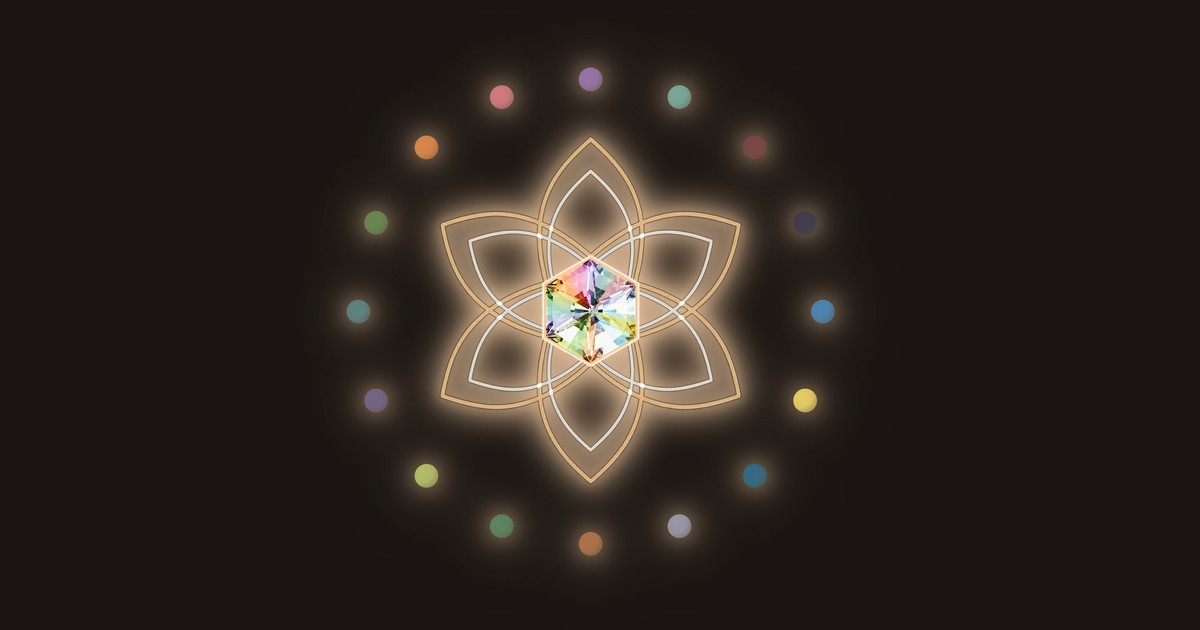
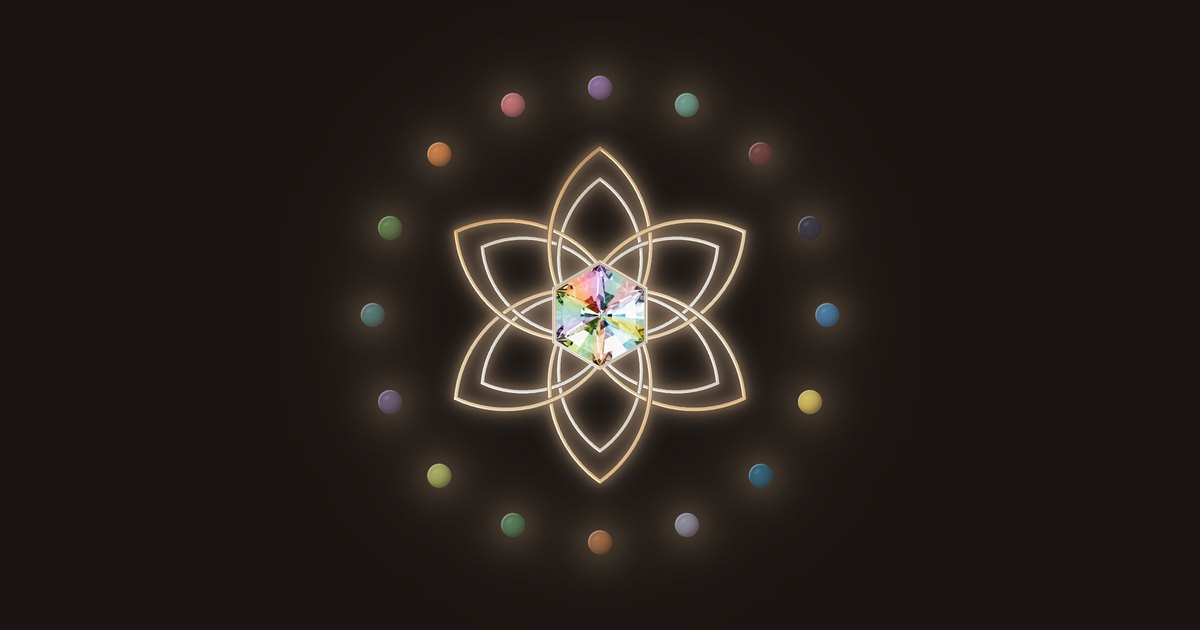
Replace the petals, orbs and bezel with vector versions
The logo's petals were a 627 px raster (petals-sep.webp) brightened by a CSS
filter, the orbs were flat gradients, and the gem's bezel was drawn on a
canvas. All three were designed in a vector bench and are now used as designed.

Changes
- Petals: src/assets/logo/petals.svg replaces petals-sep.webp. Exact arcs,
  gold and cream strokes with a bevel and a real over-and-under weave. The
  brightness(1.4) filter is gone (it was compensating for the old raster).
- Bezel: src/assets/logo/bezel.svg replaces the canvas drawing in
  SpectralGem; the bezel constants and canvas code are removed.
- Orbs: smaller inner orbs (0.069 of the size, was 0.085), slightly larger
  outer orbs (0.106, was 0.102), new opacity ranges, and four fixed layers
  over the animated colour (form shading, glass highlight, rim light, edge
  darkening). Outer orb glow radii widened 1.45x in globals.css.
- Glow round the petals and gem: radii x0.75 and opacity x0.74 (GLOW_SPREAD,
  GLOW_STRENGTH); bakeGlow takes a strength argument.
- Flat logo (headers, About watermark): new nenya-logo.webp (768 px) and
  nenya-logo-small.webp (128 px) rendered from the same drawings. Retired
  2d6974b8...webp, 97ae39e7...webp and petals-sep.webp.
- Re-rendered: apple-touch icon, icon-192/512/maskable, favicons, og-image,
  PDF logo. The 512 icons are 256-colour (38 and 31 KiB).
- docs/brand: README and vector-logo-settings.json (every chosen value) and a
  still of the orb rings.
[…]

diff --git a/src/app/components/NenyaLogo.tsx b/src/app/components/NenyaLogo.tsx
@@ -1,16 +1,14 @@
 import * as m from 'motion/react-m';
 import { useEffect, useRef, useState } from 'react';
-import nenyaLogo from 'figma:asset/2d6974b805d90d34c0a281273e556b545b1c5632.webp';
-// The source asset is a 1024x1024 WebP (~69KB) -- appropriate for the large
-// welcome-screen breathing logo (rendered up to 400px), but most call sites
-// use this component as a small persistent header mark (28-40px), where a
-// 1024px source is over 25x more image data than the display size can ever
-// show. This pre-resized/re-encoded 128x128 WebP (~5KB) is swapped in below
-// for those small sizes instead.
+// The flat logo (petals, bezel and gem, no orbs) is a 768 px WebP rendered from the vector drawings, and most call
+// sites use this component as a small persistent header mark (28-40px), where that is over 25 times more image
+// data than the display can show. A pre-resized 128 px WebP is swapped in below for those small sizes instead.
+import nenyaLogo from '../../assets/nenya-logo.webp';
 import nenyaLogoSmall from '../../assets/nenya-logo-small.webp';
-// The orbit view's two separated layers. Imported (not served from public/) so the build gives them
-// versioned filenames and they can be cached for a long time safely.
-import petalsLayer from '../../assets/petals-sep.webp';
+// The orbit view's petals: a vector drawing (two interlaced gold and cream flowers with a bevel and a true over-under
+// weave), drawn as an image so the build gives it a versioned filename that can be cached for a long time.
+// Its 765-unit box is the logo's size * 0.765, with the outer ring's diameter as 1000 units.
+import petalsLayer from '../../assets/logo/petals.svg';
 import { valarColors, type BreathingTechnique } from './ValarBreathingLogo';
 import SpectralGem from './SpectralGem';
 import LogoGlow from './LogoGlow';
@@ -19,6 +17,55 @@ import LogoGlow from './LogoGlow';
 // covers up to ~40px CSS at 3x device pixel ratio (the largest "small"
 // usage in the app today) with headroom to spare.
 const SMALL_LOGO_MAX_SIZE = 48;
+
+// The orbs are glass spheres: a colour that changes over time (animated below) with four fixed layers over it,
+// all taken from the design bench. Sizes are fractions of the logo's size; opacities are the animation's
+// low and high (the orbs pulse between them).
+const INNER_ORB_FRACTION = 0.069;
+const OUTER_ORB_FRACTION = 0.106;
+const INNER_ORB_OPACITY = [0.83, 1, 0.83];
+const OUTER_ORB_OPACITY = [0.64, 0.87, 0.64];
+const ORB_FORM = 0.3; // shading toward the lower right edge
+const ORB_SHINE = 0.2; // the glass highlight, upper left
+const ORB_RIM_LIGHT = 0.69; // a bright rim on the upper left edge
+const ORB_RIM_DARK = 0.06; // a faint darkening of the whole edge
+
+/** The fixed layers over an orb's changing colour. `d` is the orb's diameter in px. */
+function OrbSurface({ d }: { d: number }) {
+  const R = d / 2;
+  const fill: React.CSSProperties = { position: 'absolute', inset: 0, borderRadius: '50%', pointerEvents: 'none' };
+  const ring = 'radial-gradient(circle closest-side, transparent 86.5%, #000 87%, #000 99%, transparent 99.5%)';
+  return (
+    <>
+      <span aria-hidden="true" style={{ ...fill, background: `radial-gradient(circle ${0.85 * d}px at 30% 30%, rgba(26,15,8,0) ${0.35 * 0.85 * d}px, rgba(26,15,8,${ORB_FORM}) ${0.85 * d}px)` }} />
+      <span aria-hidden="true" style={{ ...fill, background: `radial-gradient(circle closest-side, rgba(0,0,0,0) 60%, rgba(0,0,0,${ORB_RIM_DARK}) 100%)` }} />
+      <span
+        aria-hidden="true"
+        style={
+          {
+            ...fill,
+            background: `linear-gradient(135deg, rgba(255,255,255,${ORB_RIM_LIGHT}) 0%, rgba(255,255,255,0) 45%)`,
+            maskImage: ring,
+            WebkitMaskImage: ring,
+          } as React.CSSProperties
+        }
+      />
+      <span
+        aria-hidden="true"
+        style={{
+          position: 'absolute',
+          left: R - 0.3 * R - 0.42 * R,
+          top: R - 0.34 * R - 0.26 * R,
+          width: 0.84 * R,
+          height: 0.52 * R,
+          transform: 'rotate(-38deg)',
+          pointerEvents: 'none',
+          background: `radial-gradient(ellipse closest-side, rgba(255,255,255,${ORB_SHINE}), rgba(255,255,255,0))`,
+        }}
+      />
+    </>
+  );
+}
 
 interface NenyaLogoProps {
   size?: number;
@@ -56,12 +103,12 @@ export default function NenyaLogo({
   // Inner orbit - tight orbit creates dense overlapping effect
   const orbitRadius = size * 0.0625; // 37.5px for 600px logo, 12.5px for 200px logo
   // The inner orbs sit inside the gem, so they are smaller than the outer ones.
-  const orbSize = Math.max(8.5, size * 0.085);
+  const orbSize = Math.max(8.5, size * INNER_ORB_FRACTION);
 
   // Outer orbit - at the edge of the breathing animation (logoSize / 2)
   // Breathing animation expands to 1.4x its base size (logoSize / 1.4), so at peak it reaches logoSize diameter
   const outerOrbitRadius = size / 2; // Half the logo size = outer edge of breathing animation
-  const outerOrbSize = Math.max(8.5, size * 0.102) * 0.5; // Half the size the inner orbs used to have; unchanged
+  const outerOrbSize = Math.max(8.5, size * OUTER_ORB_FRACTION) * 0.5;
 
   // Set once, when the logo first mounts with a clock anchor, so a fresh mount starts the rotation at the
   // correct phase. Deliberately NOT recomputed when the anchor changes later: that happens when the breathing
@@ -92,7 +139,7 @@ export default function NenyaLogo({
       )}
 
       {/* Logo image - base layer. When the Valar orbit is enabled the flat logo is
-          swapped for the separated petals layer (brightened) under the gem overlay below. */}
+          swapped for the vector petals under the gem overlay below. */}
       {showLogo && (
         <img
           src={showValarOrbit ? petalsLayer : flatLogoSrc}
@@ -107,7 +154,6 @@ export default function NenyaLogo({
             left: '50%',
             top: '50%',
             transform: 'translate(-50%,-50%)',
-            filter: showValarOrbit ? 'brightness(1.4)' : undefined,
           }}
         />
       )}
@@ -163,7 +209,7 @@ export default function NenyaLogo({
                   top: wrapped ? pad : orbitRadius - orbSize / 2 + y,
                   borderRadius: '50%',
                   willChange: 'background, opacity, transform',
-                  opacity: 0.64,
+                  opacity: INNER_ORB_OPACITY[0],
                   backfaceVisibility: 'hidden',
                   WebkitBackfaceVisibility: 'hidden',
                   transform: 'translateZ(0)',
@@ -178,7 +224,7 @@ export default function NenyaLogo({
                     `radial-gradient(circle at 30% 30%, ${colors[5]}ff, ${colors[5]}ee 50%, ${colors[5]}99 80%, ${colors[5]}44)`,
                     `radial-gradient(circle at 30% 30%, ${colors[0]}ff, ${colors[0]}ee 50%, ${colors[0]}99 80%, ${colors[0]}44)`,
                   ],
-                  opacity: [0.584, 0.8, 0.584],
+                  opacity: INNER_ORB_OPACITY,
                   scale: [0.95, 1.05, 0.95],
                   rotate: -360,
                 }}
@@ -205,7 +251,9 @@ export default function NenyaLogo({
                     ease: "linear"
                   }
                 }}
-              />
+              >
+                <OrbSurface d={orbSize} />
+              </m.div>
             );
             if (!wrapped) return orb;
             const rr = orbSize / 2;
@@ -282,7 +330,7 @@ export default function NenyaLogo({
                   top: outerOrbitRadius - outerOrbSize / 2 + y,
                   borderRadius: '50%',
                   willChange: 'background, opacity, transform',
-                  opacity: 0.8,
+                  opacity: OUTER_ORB_OPACITY[0],
                   backfaceVisibility: 'hidden',
                   WebkitBackfaceVisibility: 'hidden',
                   transform: 'translateZ(0)',
@@ -297,7 +345,7 @@ export default function NenyaLogo({
                     `radial-gradient(circle at 30% 30%, ${colors[5]}ff, ${colors[5]}ee 50%, ${colors[5]}99 80%, ${colors[5]}44)`,
                     `radial-gradient(circle at 30% 30%, ${colors[0]}ff, ${colors[0]}ee 50%, ${colors[0]}99 80%, ${colors[0]}44)`,
                   ],
-                  opacity: [0.73, 1.0, 0.73],
+                  opacity: OUTER_ORB_OPACITY,
                   scale: [0.95, 1.05, 0.95],
                   rotate: 360,
                 }}
@@ -324,7 +372,9 @@ export default function NenyaLogo({
                     ease: "linear"
                   }
                 }}
-              />
+              >
+                <OrbSurface d={outerOrbSize} />
+              </m.div>
             );
           })}
         </div>

diff --git a/src/app/components/SpectralGem.tsx b/src/app/components/SpectralGem.tsx
@@ -1,9 +1,12 @@
 import { useEffect, useRef } from 'react';
+// The bezel is a vector drawing, made in the design bench: a double hexagon (gold, and a thinner cream one just
+// outside it) with a bevel. Its box is 1.12 times the stone's frame, so the outer line is not cut off.
+import bezelSvg from '../../assets/logo/bezel.svg';
 import { useFadeSwitch } from '../../lib/useFadeSwitch';
 import { allColors, valarColors } from './ValarBreathingLogo';
 import { orbColour } from '../../lib/orbColours';
 import { breathFractions, breathLengthMs, gemClock, gemMultiplyColor, type BreathTiming } from '../../lib/breathClock';
-import { GEM_CENTRE, GEM_HEX_RADIUS, GEM_TO_PETALS, SPRITE_CELL, frameOrigin, loadGemSprite } from '../../lib/gemSprite';
+import { GEM_CENTRE, GEM_TO_PETALS, SPRITE_CELL, frameOrigin, loadGemSprite } from '../../lib/gemSprite';
 
 interface SpectralGemProps {
   /** The logo's size (the same `size` NenyaLogo takes). */
@@ -25,18 +28,7 @@ interface SpectralGemProps {
   fieldAlpha?: number;
 }
 
-// A double bezel around the edge of the stone, drawn behind it. It copies the petals' strokes: the same two colours
-// (a gold line, and a thinner cream line just outside it), the same thickness, the same slight transparency (the
-// petals are about 86% opaque, so what shows is a little darker than the plain colour) and the same soft edge.
-const BEZEL_WIDTH = 0.032; // of the stone's frame (the petals' line is about 2.8% of the same span)
-const BEZEL_COLOR = [252, 206, 150];
-const BEZEL_OUTER_WIDTH = 0.012;
-const BEZEL_OUTER_COLOR = [255, 249, 238];
-const BEZEL_GAP = 0.004; // between the two lines
-const BEZEL_ALPHA = 0.86;
-const BEZEL_FEATHER = 0.012; // extra width of the soft edge, at a lower alpha
-const BEZEL_SHIFT = 0.15; // how far (as a fraction of its width) the gold line sits outside the stone's edge
-const BEZEL_CANVAS = 1.12; // the bezel canvas is this much larger than the stone's, so the outer line is not cut off
+const BEZEL_CANVAS = 1.12; // the bezel image is this much larger than the stone's frame (the bezel.svg viewBox is the same ratio)
 
 // The stone's own colour: the colours of the 16 inner orbs laid round it like a colour wheel that turns once every
 // two minutes (as the orbit does) and changes as the orbs' colours change. It is applied with the "color" blend,
@@ -70,7 +62,6 @@ export default function SpectralGem({
 }: SpectralGemProps) {
   const bodyRef = useRef<HTMLCanvasElement>(null);
   const lightRef = useRef<HTMLCanvasElement>(null);
-  const bezelRef = useRef<HTMLCanvasElement>(null);
   const mountTime = useRef(Date.now());
 
   const petalsSide = size * 0.765;
@@ -93,41 +84,6 @@ export default function SpectralGem({
     const px = Math.max(8, Math.round(gemSide * dpr));
     // Only resize when the size really changed: resizing clears a canvas, which shows as a flash.
     if (body.width !== px) body.width = body.height = light.width = light.height = px;
-    // The bezel is static: drawn once per size, on a slightly larger canvas.
-    const bezel = bezelRef.current;
-    const pxb = Math.round(px * BEZEL_CANVAS);
-    if (bezel && bezel.width !== pxb) {
-      bezel.width = bezel.height = pxb;
-      const z = bezel.getContext('2d');
-      if (z) {
-        const c = pxb / 2;
-        const R = GEM_HEX_RADIUS * px + BEZEL_SHIFT * BEZEL_WIDTH * px;
-        const hex = (radius: number) => {
-          z.beginPath();
-          for (let k = 0; k < 6; k++) {
-            const a = -Math.PI / 2 + (k * Math.PI) / 3; // corners at the top and bottom
-            const x = c + radius * Math.cos(a), y = c + radius * Math.sin(a);
-            if (k === 0) z.moveTo(x, y); else z.lineTo(x, y);
-          }
-          z.closePath();
-        };
-        z.lineJoin = 'round';
-        z.lineCap = 'round';
-        const rgba = (col: number[], a: number) => `rgba(${col[0]},${col[1]},${col[2]},${a})`;
-        const line = (radius: number, width: number, col: number[]) => {
-          z.strokeStyle = rgba(col, BEZEL_ALPHA * 0.4);
-          z.lineWidth = Math.max(1.5, (width + BEZEL_FEATHER) * px);
-          hex(radius);
-          z.stroke();
-          z.strokeStyle = rgba(col, BEZEL_ALPHA);
-          z.lineWidth = Math.max(1, width * px);
-          hex(radius);
-          z.stroke();
-        };
-        line(R, BEZEL_WIDTH, BEZEL_COLOR);
-        line(R + (BEZEL_WIDTH / 2 + BEZEL_GAP + BEZEL_OUTER_WIDTH / 2) * px, BEZEL_OUTER_WIDTH, BEZEL_OUTER_COLOR);
-      }
-    }
     const bctx = body.getContext('2d');
     const lctx = light.getContext('2d');
     const off = document.createElement('canvas');
@@ -280,7 +236,7 @@ export default function SpectralGem({
     <>
       <canvas ref={bodyRef} aria-hidden="true" style={{ ...place, zIndex: 30, opacity: (1 - clarity) * (fadeStyle.opacity as number), transition: fadeStyle.transition }} />
       <canvas ref={lightRef} aria-hidden="true" style={{ ...place, zIndex: 31, mixBlendMode: 'overlay', opacity: sparkle * (fadeStyle.opacity as number), transition: fadeStyle.transition }} />
-      <canvas ref={bezelRef} aria-hidden="true" style={{ ...place, width: gemSide * BEZEL_CANVAS, height: gemSide * BEZEL_CANVAS, zIndex: 29 }} />
+      <img src={bezelSvg} alt="" aria-hidden="true" draggable={false} style={{ ...place, width: gemSide * BEZEL_CANVAS, height: gemSide * BEZEL_CANVAS, zIndex: 29 }} />
     </>
   );
 }

diff --git a/src/styles/globals.css b/src/styles/globals.css
@@ -705,27 +705,28 @@
   .nenya-logo-hover:hover .nenya-glow-rest { opacity: 0; }
   .nenya-logo-hover:hover .nenya-glow-hover { opacity: 1; }
 
-  /* Outer orbs: box-shadow blur is twice a Gaussian sigma, so these are double the glow image's radii. */
+  /* Outer orbs: box-shadow blur is twice a Gaussian sigma. The radii are those of the logo's glow image, doubled and then
+     widened by 1.45 (the width chosen in the design bench). */
   .nenya-orb-glow {
-    box-shadow: 0 0 16px var(--nenya-accent-warm),
-                0 0 32px color-mix(in srgb, var(--nenya-accent-metallic) 80%, transparent),
-                0 0 48px color-mix(in srgb, var(--nenya-accent-primary) 60%, transparent);
+    box-shadow: 0 0 23px var(--nenya-accent-warm),
+                0 0 46px color-mix(in srgb, var(--nenya-accent-metallic) 80%, transparent),
+                0 0 70px color-mix(in srgb, var(--nenya-accent-primary) 60%, transparent);
     transition: box-shadow 0.3s ease;
   }
   .dark .nenya-orb-glow {
-    box-shadow: 0 0 20px var(--nenya-accent-warm),
-                0 0 40px color-mix(in srgb, var(--nenya-accent-metallic) 80%, transparent),
-                0 0 60px color-mix(in srgb, var(--nenya-accent-primary) 60%, transparent);
+    box-shadow: 0 0 29px var(--nenya-accent-warm),
+                0 0 58px color-mix(in srgb, var(--nenya-accent-metallic) 80%, transparent),
+                0 0 87px color-mix(in srgb, var(--nenya-accent-primary) 60%, transparent);
   }
   .nenya-logo-hover:hover .nenya-orb-glow {
-    box-shadow: 0 0 24px var(--nenya-accent-warm),
-                0 0 48px color-mix(in srgb, var(--nenya-accent-metallic) 80%, transparent),
-                0 0 72px color-mix(in srgb, var(--nenya-accent-primary) 60%, transparent);
+    box-shadow: 0 0 35px var(--nenya-accent-warm),
+                0 0 70px color-mix(in srgb, var(--nenya-accent-metallic) 80%, transparent),
+                0 0 104px color-mix(in srgb, var(--nenya-accent-primary) 60%, transparent);
   }
   .dark .nenya-logo-hover:hover .nenya-orb-glow {
-    box-shadow: 0 0 32px var(--nenya-accent-warm),
-                0 0 64px color-mix(in srgb, var(--nenya-accent-metallic) 80%, transparent),
-                0 0 96px color-mix(in srgb, var(--nenya-accent-primary) 60%, transparent);
+    box-shadow: 0 0 46px var(--nenya-accent-warm),
+                0 0 93px color-mix(in srgb, var(--nenya-accent-metallic) 80%, transparent),
+                0 0 139px color-mix(in srgb, var(--nenya-accent-primary) 60%, transparent);
   }
 
   /* Performance optimizations for animations */

diff --git a/src/lib/glowBake.ts b/src/lib/glowBake.ts
@@ -18,6 +18,13 @@ export const GLOW_RADII = {
   darkHover: [16, 32, 48],
 } as const;
 
+/**
+ * How the logo's glow is drawn now, set in the design bench against the radii above: the radii are multiplied by
+ * GLOW_SPREAD (a tighter halo around the vector petals) and the glow's opacity by GLOW_STRENGTH.
+ */
+export const GLOW_SPREAD = 0.75;
+export const GLOW_STRENGTH = 0.74;
+
 export type GlowState = keyof typeof GLOW_RADII;
 
 /** The largest radius, so callers can leave room around the logo for the glow. */
@@ -81,7 +88,7 @@ export function gaussianBlur(src: Float32Array, w: number, h: number, sigma: num
 
 /**
  * Bake the glow around `alpha` (0..1 per pixel, w by h). `radii` are CSS lengths and `scale` is device
- * pixels per CSS px. Returns straight (non-premultiplied) RGBA bytes of the glow only, with no content in it.
+ * pixels per CSS px. `strength` scales the glow's opacity (colour is unchanged). Returns straight (non-premultiplied) RGBA bytes of the glow only, with no content in it.
  */
 export function bakeGlow(
   alpha: Float32Array,
@@ -90,6 +97,7 @@ export function bakeGlow(
   radii: readonly number[],
   scale: number,
   colors: [number, number, number][] = GLOW_COLORS,
+  strength = 1,
 ): Uint8ClampedArray<ArrayBuffer> {
   const n = w * h;
   const A = alpha.slice();
@@ -113,7 +121,7 @@ export function bakeGlow(
     out[p * 4] = Math.round((G[p * 3] / ga) * 255);
     out[p * 4 + 1] = Math.round((G[p * 3 + 1] / ga) * 255);
     out[p * 4 + 2] = Math.round((G[p * 3 + 2] / ga) * 255);
-    out[p * 4 + 3] = Math.round(ga * 255);
+    out[p * 4 + 3] = Math.round(ga * 255 * strength);
   }
   return out;
 }

diff --git a/src/app/components/LogoGlow.tsx b/src/app/components/LogoGlow.tsx
@@ -1,6 +1,6 @@
 import { useEffect, useRef, useState } from 'react';
 import { useTheme } from './ThemeProvider';
-import { GLOW_RADII, MAX_GLOW_RADIUS, bakeGlow } from '../../lib/glowBake';
+import { GLOW_COLORS, GLOW_RADII, GLOW_SPREAD, GLOW_STRENGTH, MAX_GLOW_RADIUS, bakeGlow } from '../../lib/glowBake';
 import { GEM_CENTRE, GEM_TO_PETALS, SPRITE_CELL, frameOrigin, loadGemSprite, loadImage } from '../../lib/gemSprite';
 
 interface LogoGlowProps {
@@ -71,7 +71,7 @@ export default function LogoGlow({ size, orbit, maskSrc }: LogoGlowProps) {
 
       const put = (canvas: HTMLCanvasElement, radii: readonly number[]) => {
         canvas.width = canvas.height = W;
-        const bytes = bakeGlow(alpha, W, W, radii, scale);
+        const bytes = bakeGlow(alpha, W, W, radii.map((r) => r * GLOW_SPREAD), scale, GLOW_COLORS, GLOW_STRENGTH);
         canvas.getContext('2d')?.putImageData(new ImageData(bytes, W, W), 0, 0);
       };
       put(rest, GLOW_RADII[theme === 'dark' ? 'dark' : 'light']);

diff --git a/src/app/components/about/AboutMenu.tsx b/src/app/components/about/AboutMenu.tsx
@@ -1,7 +1,7 @@
 import { ArrowLeft, Sparkles, Palette, MessageSquare, Shield, Building2, FileText, Users, Network, Play, Heart, Scroll, Eye, Crown, User, MessageCircle, Mail, Wind } from 'lucide-react';
 import { Button } from '../ui/button';
 import { Card, CardDescription, CardHeader, CardTitle } from '../ui/card';
-import nenyaLogo from 'figma:asset/97ae39e7ed6444a186091920628ca9206a54a124.webp';
+import nenyaLogo from '../../../assets/nenya-logo.webp';
 import { AppFooter } from '../AppFooter';
 
 interface AboutMenuProps {

diff --git a/docs/brand/README.md b/docs/brand/README.md
@@ -1,0 +1,21 @@
+# The vector logo
+
+The logo's petals, orbs and bezel are drawn as vectors. The gem is the one raster part: the site's own 48-frame sprite, unchanged.
+
+## What is where
+| Part | In the site | Source |
+|---|---|---|
+| Petals (two interlaced flowers, gold and cream, bevelled, true over-and-under weave) | `src/assets/logo/petals.svg`, drawn by `NenyaLogo.tsx`; its 765-unit box is `size * 0.765` | this folder's settings |
+| Bezel (double hexagon round the gem) | `src/assets/logo/bezel.svg`, drawn by `SpectralGem.tsx` at 1.12 times the gem's frame | same |
+| Orbs (16 inner, 16 outer) | CSS in `NenyaLogo.tsx` (`OrbSurface`): the animated colour with four fixed layers over it | same |
+| Glow round the petals and gem | baked in the browser by `LogoGlow.tsx` (`GLOW_SPREAD`, `GLOW_STRENGTH` in `src/lib/glowBake.ts`) | same |
+| Outer orbs' glow | `.nenya-orb-glow` in `src/styles/globals.css` (radii 1.45 times the old ones) | same |
+| `docs/brand/nenya-orbs.svg` | a still of both orb rings, for reference and print; not used by the site | same |
+
+`vector-logo-settings.json` holds every value chosen in the design bench (stroke widths, metal colours, bevel light, weave, orb shading, bezel). Units: the outer ring's diameter is 1000.
+
+## Raster files made from the vectors
+`src/assets/nenya-logo.webp` and `nenya-logo-small.webp` (the flat logo for headers, with no orbs), `public/icons/*`, `public/og-image.jpg`, `public/pdf-assets/nenya-logo.png`. They are renders of the same drawings; if the look changes, re-render them rather than editing them.
+
+## Not in the repository
+The design bench (`dev/`, git-excluded), the full-logo SVGs with the gem embedded (about 1 MB each) and the 10-inch print files live in `Desktop/Nenya Assets` (`Vector Masters`, `Print Logos`).
